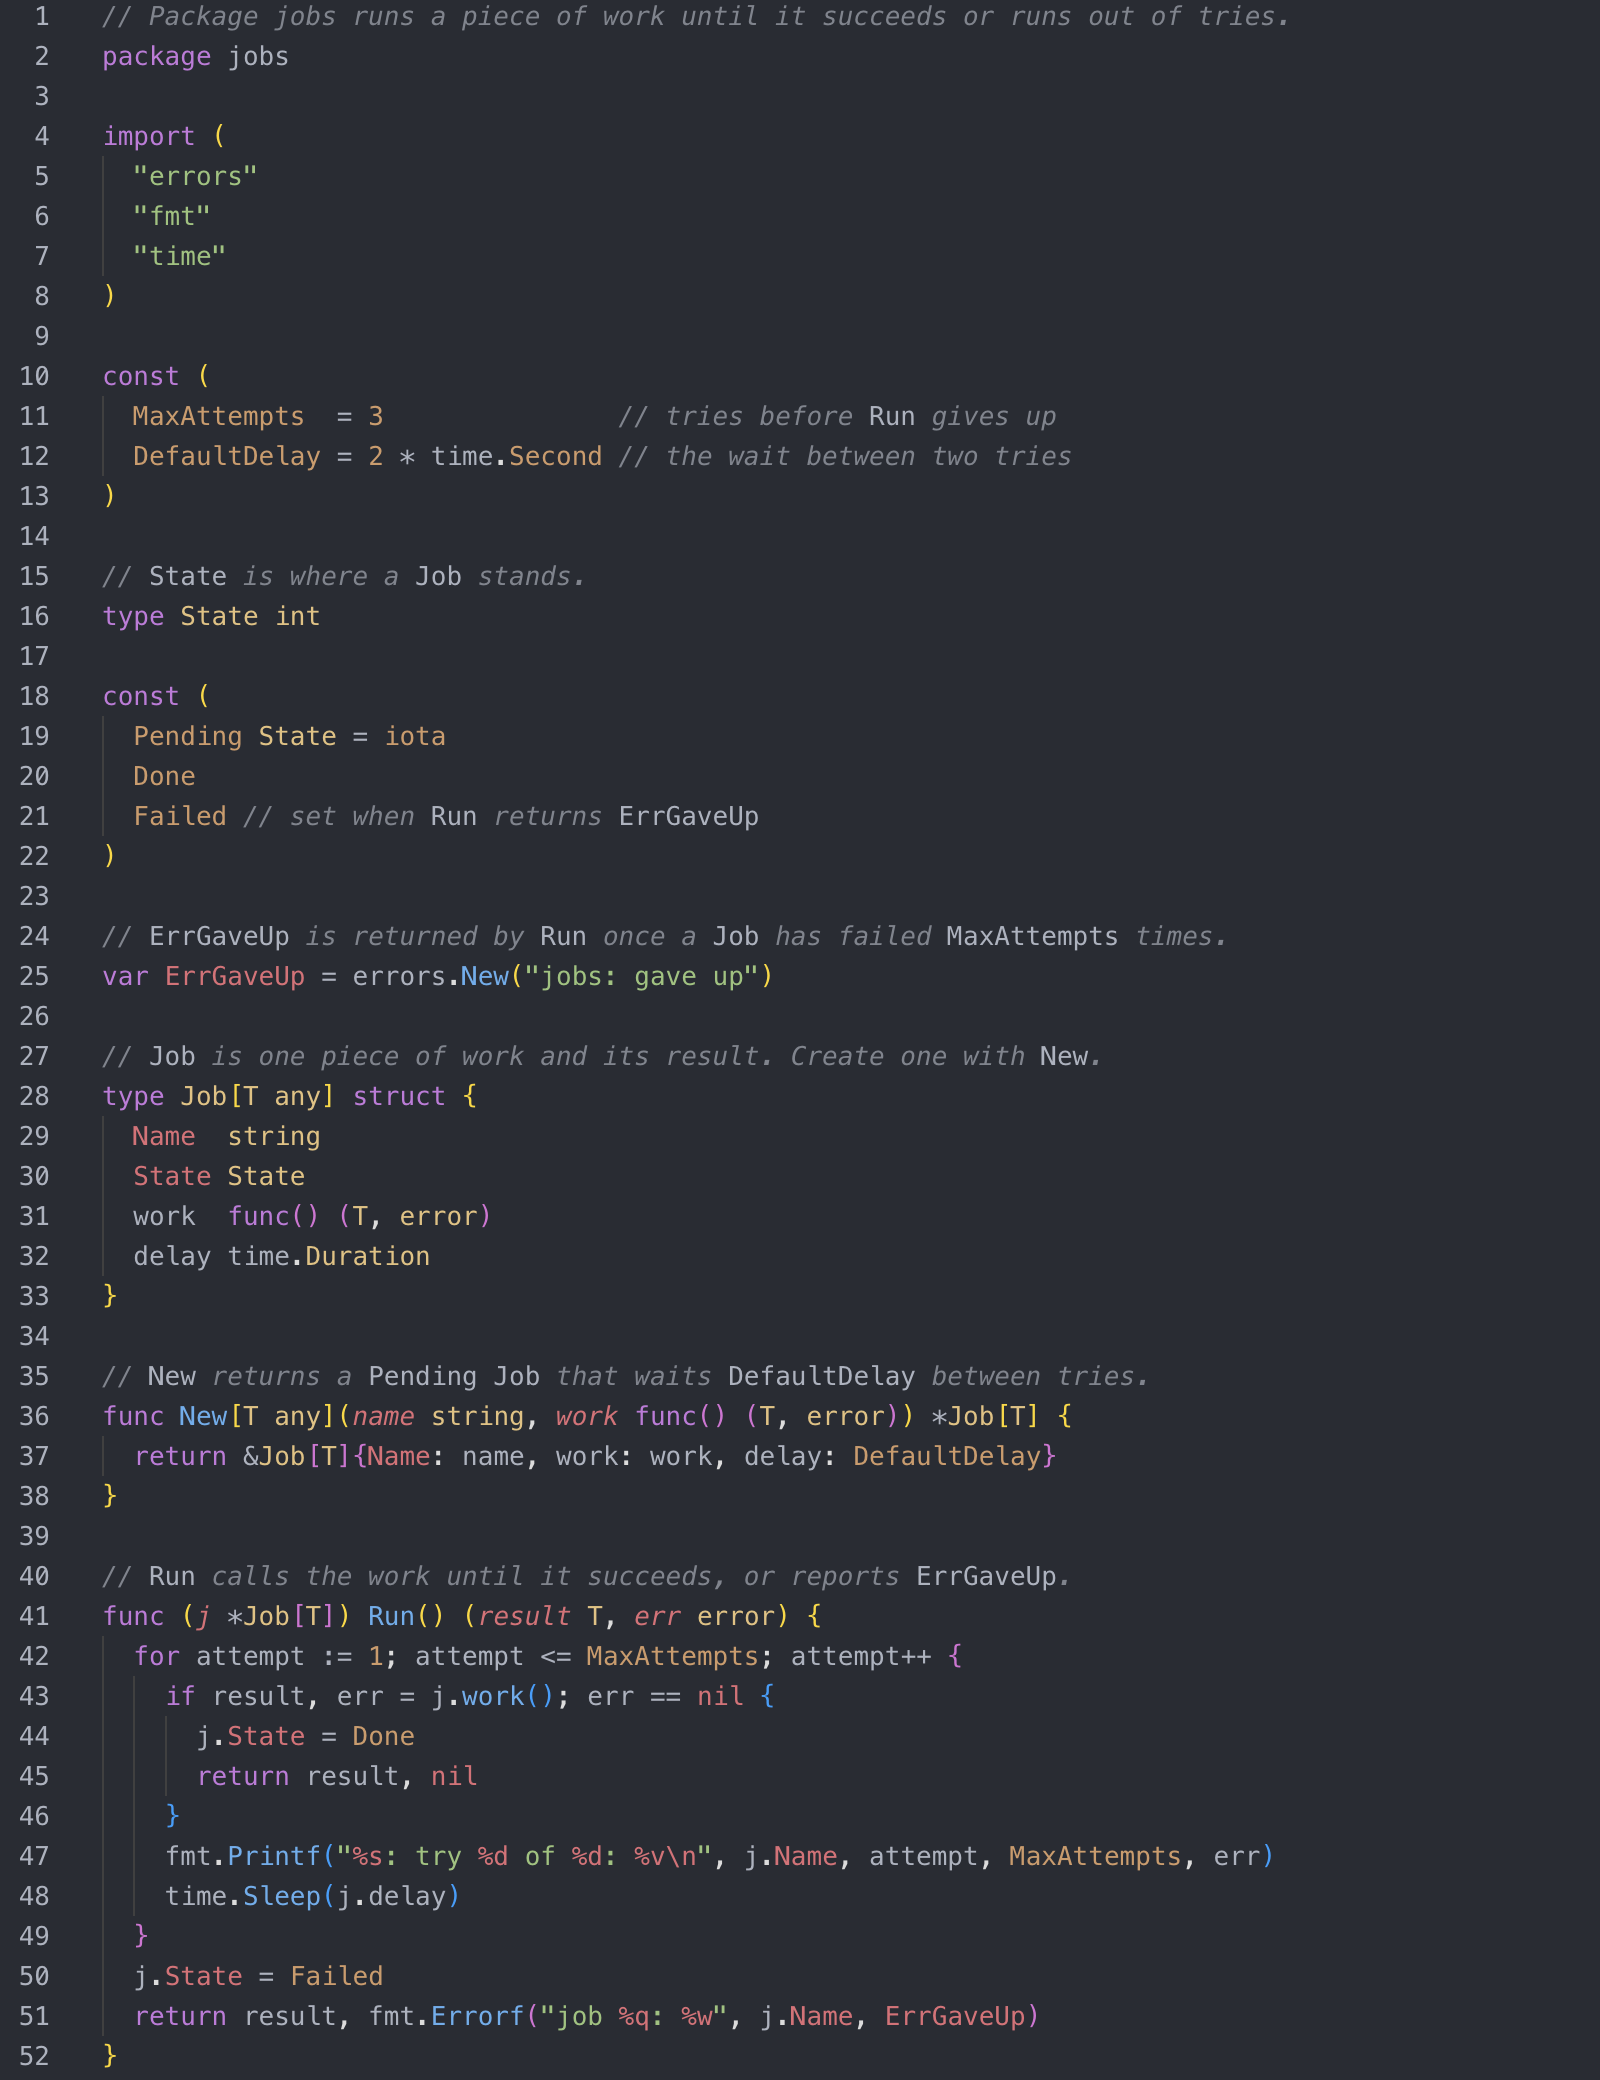
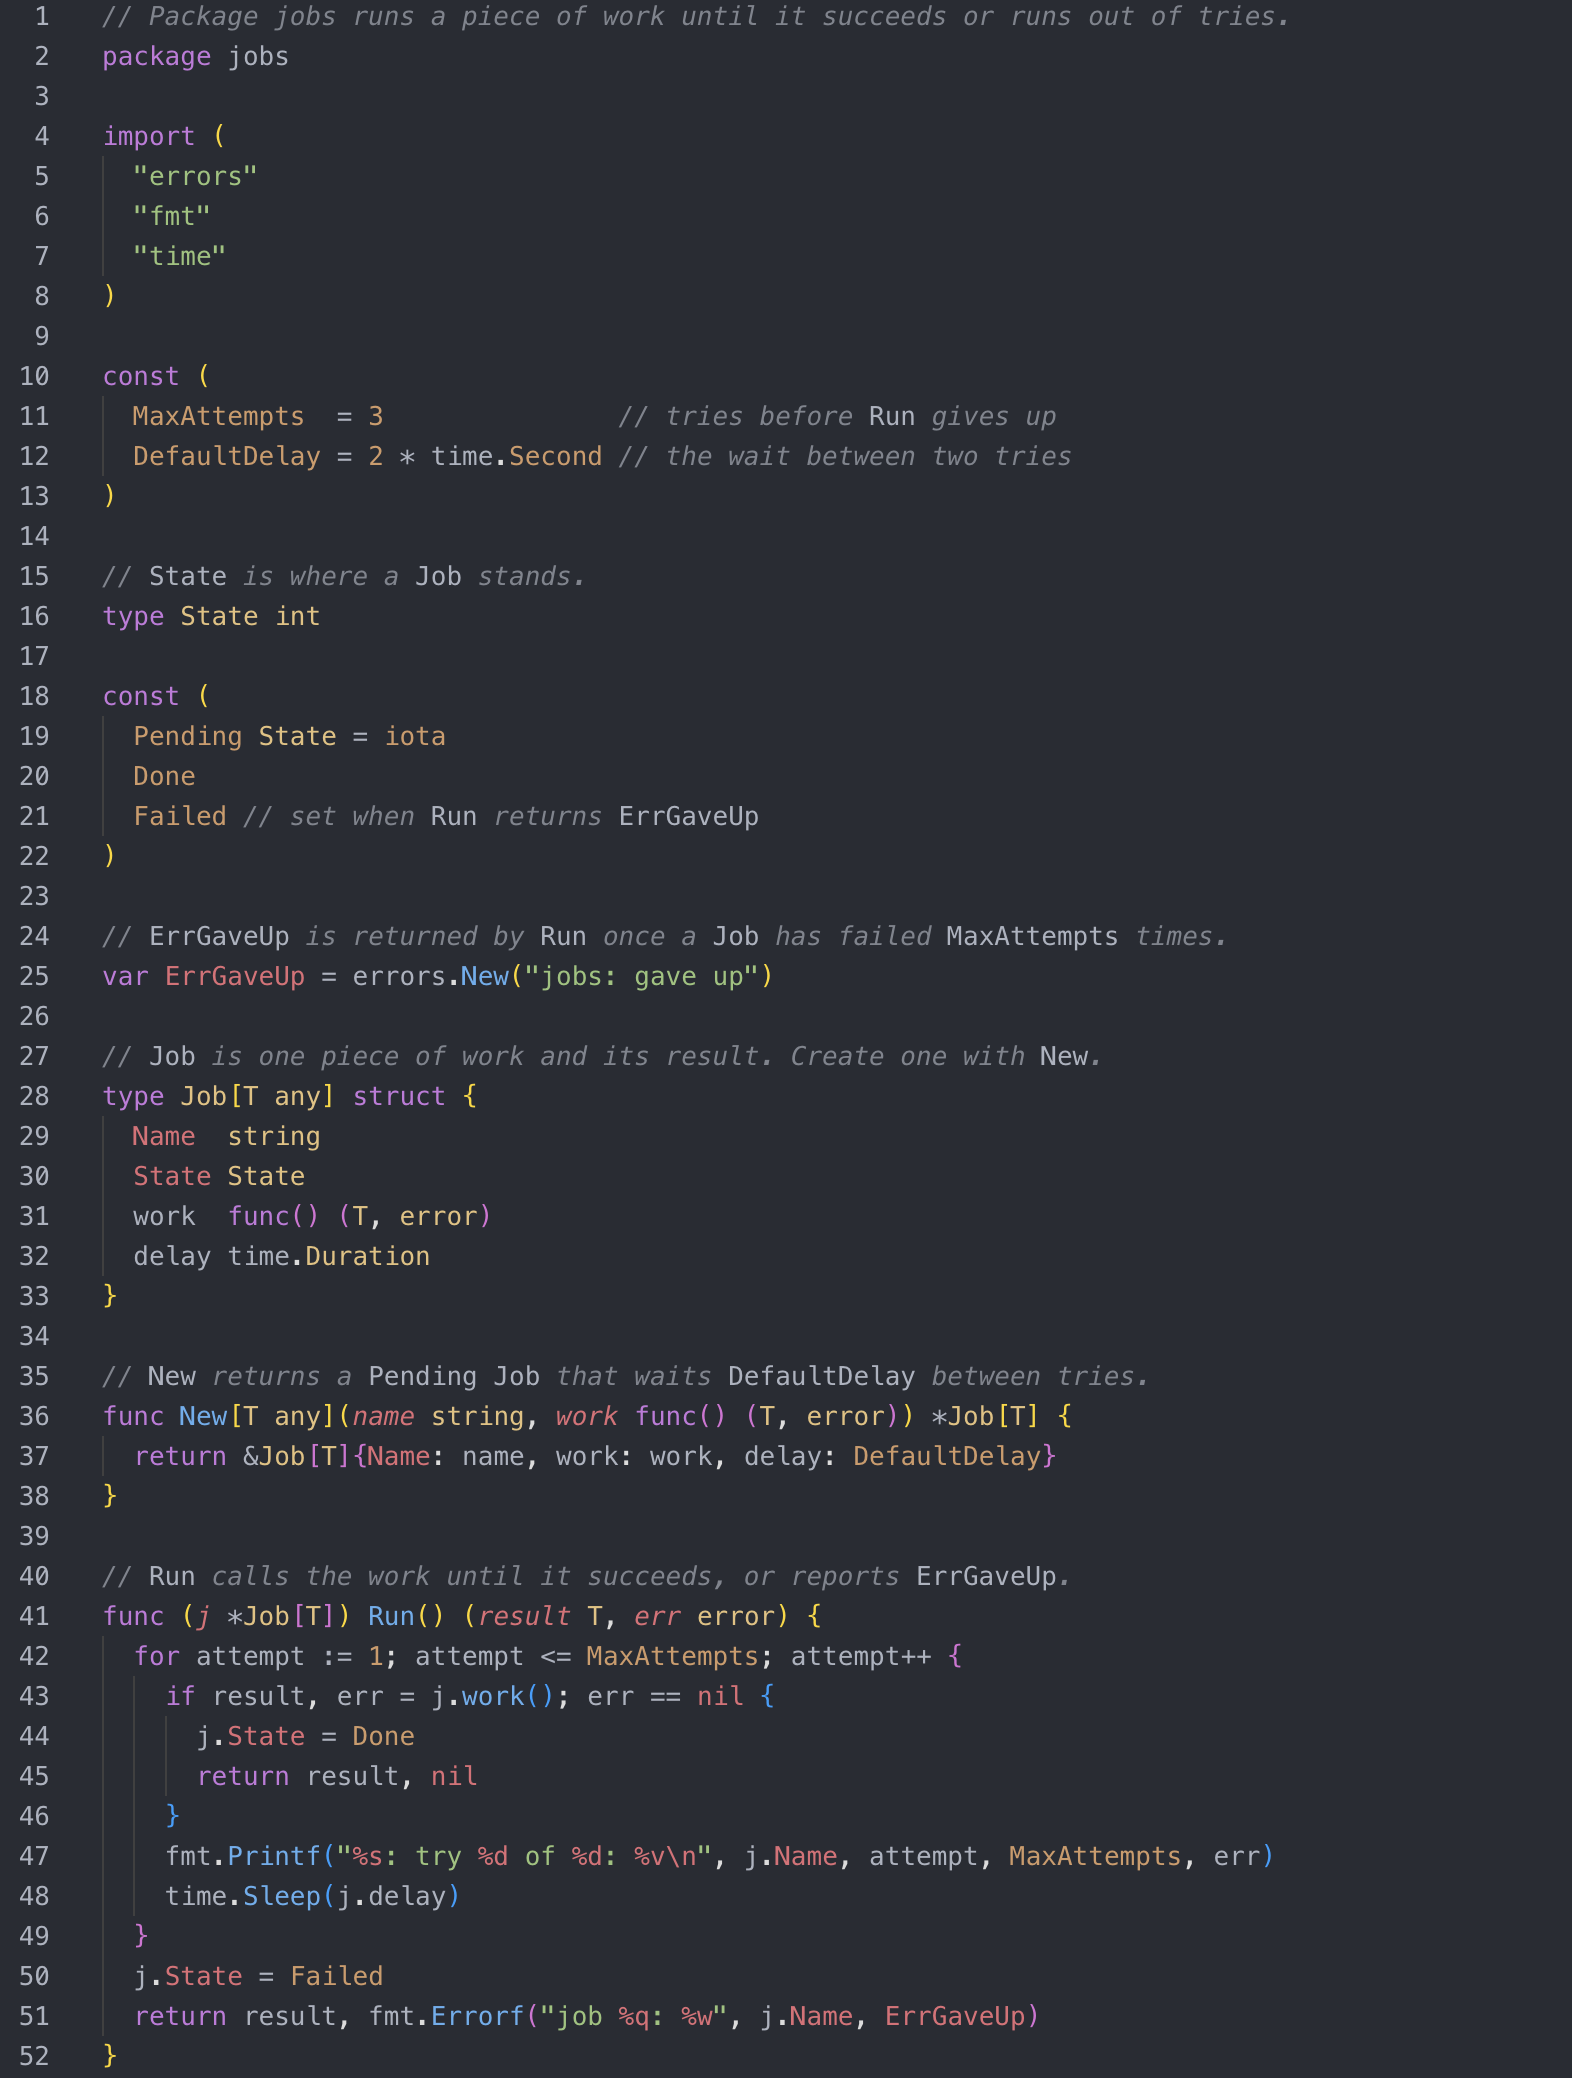
Use American spelling, and line up the two screenshots
Docs, comments, test names and the manifest description now say color,
license, recognized and capitalized. The grammar is rebuilt because rule
comments in the build script carry into it; its rules are unchanged.

The screenshots were offset by 28 pixels across and 2 down. Both are
cropped to 1572x2078 so the code sits at the same place in each, and the
README names the theme they were taken in.

diff --git a/tests/fixtures/constructs.go b/tests/fixtures/constructs.go
@@ -1,5 +1,5 @@
 // Package store is a highlighting fixture: it compiles, and it holds one of
-// each construct the grammar colours.
+// each construct the grammar colors.
 package store
 
 import (

diff --git a/README.md b/README.md
@@ -4,19 +4,19 @@ Rich syntax highlighting for Go in [Orca](https://github.com/stablyai/orca) 1.4.
 `go.mod` and `go.work`.
 
 Orca highlights Go out of the box, but with a tokenizer that only knows keywords, strings, comments
-and numbers: every identifier is one colour. This plugin replaces it with a grammar that tells
+and numbers: every identifier is one color. This plugin replaces it with a grammar that tells
 names apart by what they are, in the way GoLand does.
 
 | Orca's built-in Go highlighting | With Go Syntax |
 | --- | --- |
-| ![Go code in Orca where every identifier is the same colour](images/before.png) | ![The same code with types, functions, constants, fields and locals each in their own colour](images/after.png) |
+| ![Go code in Orca where every identifier is the same color](images/before.png) | ![The same code with types, functions, constants, fields and locals each in their own color](images/after.png) |
 
-The same file, [`examples/sample.go`](examples/sample.go), in the same theme.
+The same file, [`examples/sample.go`](examples/sample.go), in the One Dark Pro theme.
 
 **Highlighting only.** No completion, navigation or diagnostics. The plugin is data: it runs no
 code and asks for no access.
 
-## What gets its own colour
+## What gets its own color
 
 | In the code | Orca token type | One Dark Pro |
 | --- | --- | --- |
@@ -30,7 +30,7 @@ code and asks for no access.
 | Locals, unexported fields, package names (`fmt`, `sql`), labels | none | default text |
 | Names from the code inside a comment | none | default text, against grey prose |
 
-Colours come from your Orca theme; the last column is what the bundled One Dark Pro shows.
+Colors come from your Orca theme; the last column is what the bundled One Dark Pro shows.
 
 In `go.mod` and `go.work`: directives are keywords, module paths and directories are strings,
 versions are numbers.
@@ -40,20 +40,20 @@ versions are numbers.
 A TextMate grammar reads syntax, one line at a time, with no knowledge of what a name refers to.
 So, unlike GoLand:
 
-- A parameter is coloured in the signature, not where the body uses it.
+- A parameter is colored in the signature, not where the body uses it.
 - An exported name in an expression is taken for a constant, and one after a dot for a field. So
   an exported variable other than an `Err…` one (`DefaultClient`) looks like a constant, and a
   constant from another package (`pkg.MaxSize`) looks like a field. Common standard library
   constants such as `time.Second` and `http.StatusOK` are listed and come out right.
-- A name in a comment is recognised by its shape, not looked up: the word a doc comment opens
-  with (`// Open opens…`), `mixedCaps`, `pkg.Name`, `name()`, `[Name]`, and a capitalised word in
+- A name in a comment is recognized by its shape, not looked up: the word a doc comment opens
+  with (`// Open opens…`), `mixedCaps`, `pkg.Name`, `name()`, `[Name]`, and a capitalized word in
   the middle of a sentence. A lower-case name mid-sentence is missed, and a proper noun mid-sentence
   is picked up.
-- A conversion such as `ID(x)` looks like a call, so `ID` is coloured as a function.
-- A capitalised local would be coloured as exported. Go style keeps locals lower case.
+- A conversion such as `ID(x)` looks like a call, so `ID` is colored as a function.
+- A capitalized local would be colored as exported. Go style keeps locals lower case.
 - Reassigned variables, unused names and doc-comment links are not marked.
 
-Orca also leaves a file plain past 500,000 characters or 20,000 lines, and stops colouring at a
+Orca also leaves a file plain past 500,000 characters or 20,000 lines, and stops coloring at a
 line longer than 1,000 characters.
 
 ## Install
@@ -67,7 +67,7 @@ orca plugin install saltshakerlabs/orca-go-syntax
 ```sh
 npm install                  # the TextMate engine the tests tokenize with
 npm test                     # tokenizes Go and go.mod and checks the token types
-npm run tokens -- examples/sample.go            # print how Orca would colour a file
+npm run tokens -- examples/sample.go            # print how Orca would color a file
 npm run tokens -- examples/sample.go --scopes --lines 48-54
 orca plugin validate .
 orca plugin dev load .       # load this folder into the running Orca; edits reload on save
@@ -88,7 +88,7 @@ node tools/build-grammar.mjs
 ```
 
 The script takes the grammar in `third_party/go-syntax` (the one VS Code ships) and changes which
-scope each token gets. Orca reduces every TextMate scope to one of 24 token types and themes colour
+scope each token gets. Orca reduces every TextMate scope to one of 24 token types and themes color
 only those, so upstream's scopes, written for VS Code themes, put builtin types among the keywords
 and paint every variable alike. The header of `tools/build-grammar.mjs` lists the mapping.
 
@@ -104,13 +104,13 @@ changes that table, the tests keep passing but stop describing what Orca draws; 
 | `syntaxes/go.tmLanguage.json` | Go grammar, generated |
 | `syntaxes/gomod.tmLanguage.json` | `go.mod` and `go.work` grammar, written by hand |
 | `syntaxes/*.language-configuration.json` | Comment markers, brackets, auto-closing pairs |
-| `third_party/go-syntax/` | Upstream Go grammar and its licence |
+| `third_party/go-syntax/` | Upstream Go grammar and its license |
 | `tools/` | Grammar build script, tokenizer and token printer |
 | `examples/` | A short Go file and a `go.mod` to open in Orca |
 | `images/` | The screenshots above |
 | `tests/` | Tokenizer tests, and the longer Go fixture they time |
 
-## Licence
+## License
 
 MIT; see [LICENSE](LICENSE). The Go grammar derives from
 [worlpaker/go-syntax](https://github.com/worlpaker/go-syntax), MIT, © 2023 Furkan Ozalp; see
